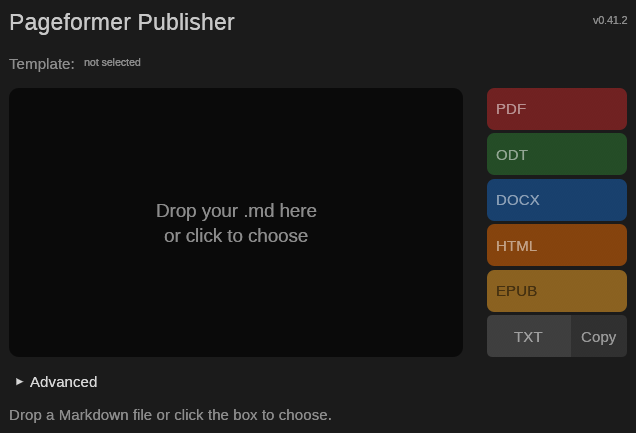
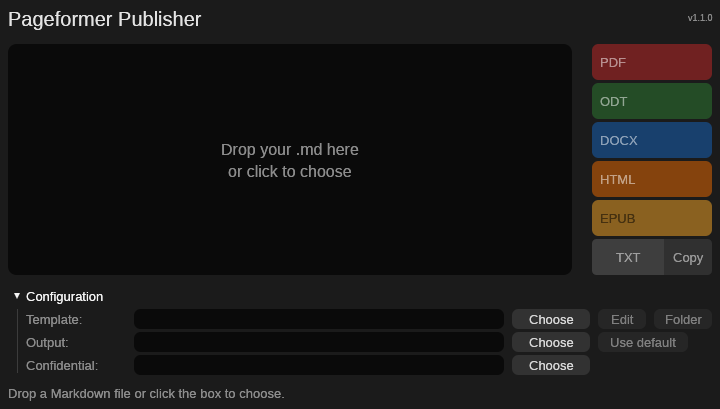
1.1.0: align the publisher Configuration buttons and refresh the screenshot

diff --git a/publisher/src/app.rs b/publisher/src/app.rs
@@ -637,6 +637,11 @@ impl Publisher {
         ui.add_space(8.0);
         let configuration = egui::CollapsingHeader::new("Configuration").show(ui, |ui| {
             let template_hint = self.template_label.clone();
+            let output_hint = if self.output_error.is_none() {
+                self.session.automatic_summary()
+            } else {
+                None
+            };
             let template_buttons = [
                 RowButton {
                     label: "Choose",
@@ -657,6 +662,33 @@ impl Publisher {
                     enabled: self.template_path.is_some(),
                 },
             ];
+            let output_buttons = [
+                RowButton {
+                    label: "Choose",
+                    tooltip: "Choose an output folder override.",
+                    width: CHOOSE_BUTTON_WIDTH,
+                    enabled: true,
+                },
+                RowButton {
+                    label: "Use default",
+                    tooltip: "Clear the override and use the automatic directory shown as the hint.",
+                    width: DEFAULT_BUTTON_WIDTH,
+                    enabled: explicit_path(&self.session.output_override).is_some(),
+                },
+            ];
+            let confidential_buttons = [RowButton {
+                label: "Choose",
+                tooltip: "Choose the confidential INI file.",
+                width: CHOOSE_BUTTON_WIDTH,
+                enabled: true,
+            }];
+            let spacing = ui.spacing().item_spacing.x;
+            let action_width = button_group_width(&template_buttons, spacing)
+                .max(button_group_width(&output_buttons, spacing))
+                .max(button_group_width(&confidential_buttons, spacing));
+            let field_width =
+                configuration_field_width(ui.available_width(), action_width, spacing);
+
             let template_row = path_row(
                 ui,
                 "Template:",
@@ -664,6 +696,7 @@ impl Publisher {
                 &mut self.session.template_file,
                 template_hint.as_deref(),
                 "Explicit YAML template. Leave it empty to use the resolved template shown as the hint.",
+                field_width,
                 &template_buttons,
             );
             match template_row.clicked {
@@ -696,25 +729,6 @@ impl Publisher {
                 );
             }
 
-            let output_hint = if self.output_error.is_none() {
-                self.session.automatic_summary()
-            } else {
-                None
-            };
-            let output_buttons = [
-                RowButton {
-                    label: "Choose",
-                    tooltip: "Choose an output folder override.",
-                    width: CHOOSE_BUTTON_WIDTH,
-                    enabled: true,
-                },
-                RowButton {
-                    label: "Use default",
-                    tooltip: "Clear the override and use the automatic directory shown as the hint.",
-                    width: DEFAULT_BUTTON_WIDTH,
-                    enabled: explicit_path(&self.session.output_override).is_some(),
-                },
-            ];
             let output_row = path_row(
                 ui,
                 "Output:",
@@ -722,6 +736,7 @@ impl Publisher {
                 &mut self.session.output_override,
                 output_hint.as_deref(),
                 "Leave it empty for the automatic directory; type or choose a folder to override it. Documents with confidential fields need a folder outside the source tree.",
+                field_width,
                 &output_buttons,
             );
             match output_row.clicked {
@@ -745,12 +760,6 @@ impl Publisher {
                 );
             }
 
-            let confidential_buttons = [RowButton {
-                label: "Choose",
-                tooltip: "Choose the confidential INI file.",
-                width: CHOOSE_BUTTON_WIDTH,
-                enabled: true,
-            }];
             let confidential_row = path_row(
                 ui,
                 "Confidential:",
@@ -758,6 +767,7 @@ impl Publisher {
                 &mut self.session.confidential_file,
                 None,
                 "INI file with the confidential {NAME} values. Leave it empty to use the user-level folder mapping. Keep it outside the source tree, with mode 600.",
+                field_width,
                 &confidential_buttons,
             );
             match confidential_row.clicked {
@@ -994,8 +1004,9 @@ const FOLDER_BUTTON_WIDTH: f32 = 58.0;
 /// The width of the output Use default button.
 const DEFAULT_BUTTON_WIDTH: f32 = 90.0;
 
-/// Lays out a label, a text field and fixed-width action buttons, so every
-/// path row in a section aligns.
+/// Lays out a label, a text field and fixed-width action buttons. The caller
+/// passes a common field width, so the action column starts at the same place
+/// in every row.
 fn path_row(
     ui: &mut egui::Ui,
     label: &str,
@@ -1003,19 +1014,20 @@ fn path_row(
     value: &mut String,
     hint: Option<&str>,
     field_tooltip: &str,
+    field_width: f32,
     buttons: &[RowButton<'_>],
 ) -> PathRow {
-    let spacing = ui.spacing().item_spacing.x;
     let height = ui.spacing().interact_size.y;
-    let button_total: f32 = buttons.iter().map(|button| button.width).sum();
-    let gap_count = f32::from(u16::try_from(buttons.len().saturating_add(1)).unwrap_or(u16::MAX));
-    let field_width =
-        (ui.available_width() - ROW_LABEL_WIDTH - button_total - spacing * gap_count).max(80.0);
     let mut report = PathRow::default();
     ui.horizontal(|ui| {
-        let label_response = with_tooltip(ui.label(label), label_tooltip);
-        let label_padding = (ROW_LABEL_WIDTH - label_response.rect.width() - spacing).max(0.0);
-        ui.add_space(label_padding);
+        let _ = ui.allocate_ui_with_layout(
+            egui::vec2(ROW_LABEL_WIDTH, height),
+            egui::Layout::left_to_right(egui::Align::Center),
+            |ui| {
+                ui.set_width(ROW_LABEL_WIDTH);
+                with_tooltip(ui.label(label), label_tooltip);
+            },
+        );
         let mut field = egui::TextEdit::singleline(value).desired_width(field_width);
         if let Some(hint) = hint {
             field = field.hint_text(hint);
@@ -1035,6 +1047,20 @@ fn path_row(
         }
     });
     report
+}
+
+/// The width of a group of buttons, including the spacing between them.
+fn button_group_width(buttons: &[RowButton<'_>], spacing: f32) -> f32 {
+    let total: f32 = buttons.iter().map(|button| button.width).sum();
+    let gaps = f32::from(u16::try_from(buttons.len().saturating_sub(1)).unwrap_or(u16::MAX));
+    total + spacing * gaps
+}
+
+/// The common field width for the Configuration rows. The action column is as
+/// wide as the widest button group, so every Choose button starts on the same
+/// vertical line.
+fn configuration_field_width(available: f32, action_width: f32, spacing: f32) -> f32 {
+    (available - ROW_LABEL_WIDTH - action_width - spacing * 2.0).max(80.0)
 }
 
 /// An explicit path from a text field; blank means automatic resolution.
@@ -1334,6 +1360,68 @@ mod tests {
             session.automatic_summary(),
             Some("out (source folder)".to_owned())
         );
+    }
+
+    #[test]
+    fn the_configuration_rows_share_the_choose_column() {
+        let spacing = 8.0;
+        let template = [
+            RowButton {
+                label: "Choose",
+                tooltip: "",
+                width: CHOOSE_BUTTON_WIDTH,
+                enabled: true,
+            },
+            RowButton {
+                label: "Edit",
+                tooltip: "",
+                width: EDIT_BUTTON_WIDTH,
+                enabled: true,
+            },
+            RowButton {
+                label: "Folder",
+                tooltip: "",
+                width: FOLDER_BUTTON_WIDTH,
+                enabled: true,
+            },
+        ];
+        let output = [
+            RowButton {
+                label: "Choose",
+                tooltip: "",
+                width: CHOOSE_BUTTON_WIDTH,
+                enabled: true,
+            },
+            RowButton {
+                label: "Use default",
+                tooltip: "",
+                width: DEFAULT_BUTTON_WIDTH,
+                enabled: true,
+            },
+        ];
+        let confidential = [RowButton {
+            label: "Choose",
+            tooltip: "",
+            width: CHOOSE_BUTTON_WIDTH,
+            enabled: true,
+        }];
+
+        let action_width = button_group_width(&template, spacing)
+            .max(button_group_width(&output, spacing))
+            .max(button_group_width(&confidential, spacing));
+        let field_width = configuration_field_width(748.0, action_width, spacing);
+        let choose_column = ROW_LABEL_WIDTH + spacing + field_width + spacing;
+
+        assert_eq!(action_width, 200.0);
+        assert_eq!(choose_column, 548.0);
+        assert!(button_group_width(&template, spacing) <= action_width);
+        assert!(button_group_width(&output, spacing) <= action_width);
+        assert!(button_group_width(&confidential, spacing) <= action_width);
+    }
+
+    #[test]
+    fn a_narrow_configuration_keeps_a_minimum_field_width() {
+        assert_eq!(configuration_field_width(200.0, 200.0, 8.0), 80.0);
     }
 
     #[test]

diff --git a/CHANGELOG.md b/CHANGELOG.md
@@ -12,6 +12,7 @@
 - Resolves the publisher output with the same precedence, shows the automatic directory and its origin as a placeholder in the empty output field, and treats a value as an override that Use default clears.
 - Derives the publisher title color from the active light or dark theme instead of a fixed light gray.
 - Simplifies the publisher configuration: the Advanced section is now Configuration, the resolved template moved from the top row into the template row with Choose, Edit and Folder together, and the template and output fields show the automatic value as a placeholder instead of separate lines.
+- Aligns the Configuration Choose buttons in a single column under the widest action group, so the template, output and confidential fields end at the same place and every Choose starts at the same x; refreshes the publisher screenshot.
 - Adds `pageformer --write-default-template`, which writes the embedded template to the user configuration directory without overwriting an existing file, and ships the reference template in the Debian package.
 - Trims the platform-dialog wording from the publisher Choose tooltips.
 - Automates the Debian package on release: `.github/workflows/deb.yml` checks out the tag, verifies the version and `lintian`, builds the `.deb`, rewrites `SHA256SUMS` with the source archive and the package, and attaches both to the release; a manual dispatch rebuilds a chosen tag.
